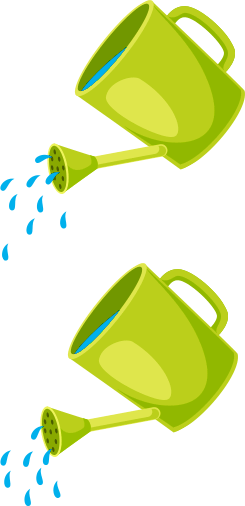
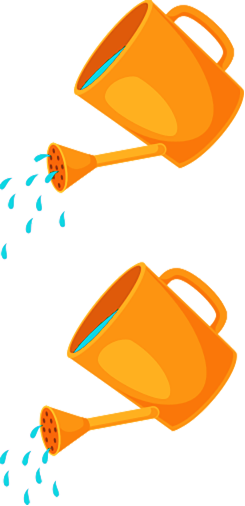
'桃子森林更新完成'

diff --git a/src/scene/PeachScene.ts b/src/scene/PeachScene.ts
@@ -94,8 +94,8 @@ class PeachScene extends Scene {
 
         // 头像
         let avatar = Util.setUserImg(this.userInfo.avatar, 108)
-        avatar.x = 11
-        avatar.y = 5
+        avatar.x = 6
+        avatar.y = 4
         avatarGroup.addChild(avatar)
 
         // 积分文字
@@ -238,7 +238,10 @@ class PeachScene extends Scene {
         let peachArr = [
             { bg: 'peach1_png', x: 580, y: this.stage.stageHeight - 524, zIndex: 2 },
             { bg: 'peach2_png', x: 245, y: this.stage.stageHeight - 464, zIndex: 2 },
-            { bg: 'peach3_png', x: 360, y: this.stage.stageHeight - 604, zIndex: 5 },
+            { bg: 'peach1_png', x: 360, y: this.stage.stageHeight - 604, zIndex: 5 },
+            { bg: 'orange1_png', x: 580, y: this.stage.stageHeight - 524, zIndex: 2 },
+            { bg: 'orange2_png', x: 245, y: this.stage.stageHeight - 464, zIndex: 2 },
+            { bg: 'orange1_png', x: 360, y: this.stage.stageHeight - 604, zIndex: 5 },
         ]
 
         let pArr = []  // 创建出来的桃子数组
@@ -254,7 +257,7 @@ class PeachScene extends Scene {
 
         // 根据info显示对应的桃子
         this.info.peach.forEach((item) => {
-            let peach = pArr[item.position - 1]
+            let peach = item.num % 2 == 1 ? pArr[item.position - 1] : pArr[item.position + 3 - 1]
             this.count++
             this.peachAni(peach, item)
         })
@@ -280,7 +283,7 @@ class PeachScene extends Scene {
 
         // 摘桃子提示
         this.addChild(this.peachText)
-        this.showTip(390, this.stage.stageHeight - 174, '摘取你的功夫桃子', this.peachText)
+        this.showTip(390, this.stage.stageHeight - 174, '摘取你的功夫水果', this.peachText)
         if (this.count <= 0) {
             this.peachText.visible = false
         }

diff --git a/src/scene/Scene.ts b/src/scene/Scene.ts
@@ -1,6 +1,8 @@
+type BTN = 'close_png' | 'close_white_png' | 'close_yellow_png' | false
+
 class Scene extends eui.UILayer {
     private isRemove: boolean = true
-    public close_btn: any = 'close_png'  // 关闭按钮
+    public close_btn: BTN = 'close_png'  // 关闭按钮
     public isnSpecialReturn: any = false
     public navColor
     public name
@@ -20,12 +22,12 @@ class Scene extends eui.UILayer {
             this.init()
             this.isRemove = false
             if (this.close_btn != false) {
-                this.crteateNavButton(this.close_btn)
+                this.createNavButton(this.close_btn)
             }
         }
     }
 
-    public crteateNavButton(bg) {
+    public createNavButton(bg) {
         let nav_bg = Util.createBitmapByName(bg)
         nav_bg.x = this.stage.stageWidth - 90
         nav_bg.y = 40

diff --git a/src/component/PkUser.ts b/src/component/PkUser.ts
@@ -132,7 +132,7 @@ class TeamUser extends eui.Group {
         // 头像
         let avatar = new egret.Bitmap()
         avatar.width = avatar.height = 112
-        avatar.x = this.type == UserPositionType.LEFT ? 170 : 3
+        avatar.x = this.type == UserPositionType.LEFT ? 173 : 3
         avatar.y = 3
         this.addChild(avatar)
         this.avatar = avatar
